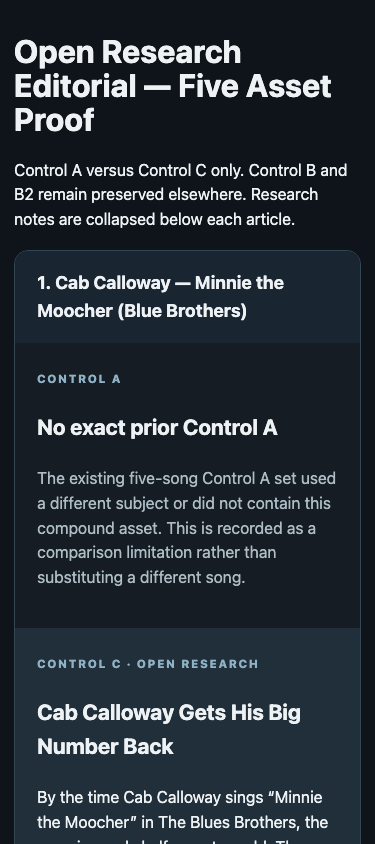
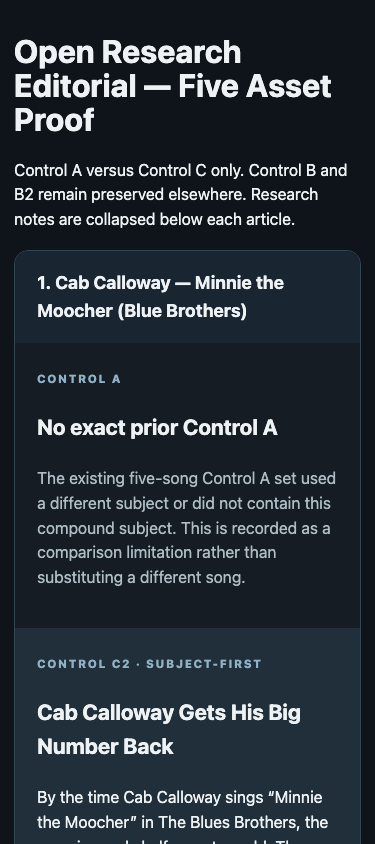
Make five-asset editorials subject first

Changed region(s): [[0.3227, 0.7701, 0.704, 0.8009], [0.3227, 0.6161, 0.6747, 0.6469], [0.704, 0.6161, 0.88, 0.6469]]

diff --git a/reports/open-research-editorial-5/comparison.html b/reports/open-research-editorial-5/comparison.html
@@ -1,5 +1,5 @@
-<!doctype html><html><head><meta charset="utf-8"><meta name="viewport" content="width=device-width,initial-scale=1"><title>Open Research Editorial — Five Asset Proof</title><style>*{box-sizing:border-box}body{margin:0;background:#0e141a;color:#eef2f4;font:16px/1.55 system-ui,sans-serif;padding:24px}main{max-width:1400px;margin:auto}h1{font-size:clamp(2rem,5vw,4rem);line-height:1.05}h2{background:#192531;padding:18px 22px;margin:0;border-radius:14px 14px 0 0;font-size:1.35rem}section{border:1px solid #334653;border-radius:14px;margin:28px 0;overflow:hidden}.grid{display:grid;grid-template-columns:1fr 1fr}.grid article{padding:24px;background:#151c23;min-height:300px}.grid .c{background:#202f39}label{font-size:.72rem;letter-spacing:.14em;color:#8fb1c5;font-weight:800}h3{font-size:1.35rem}p{max-width:72ch}.note{color:#aebcc5}details{margin-top:20px;border-top:1px solid #52636d;padding-top:12px;font-size:.85rem;overflow-wrap:anywhere}summary{cursor:pointer;color:#b8d5e4}@media(max-width:700px){body{padding:14px}.grid{grid-template-columns:1fr}section{margin:18px 0}.grid article{min-height:0;padding:22px}h2{font-size:1.12rem}} </style></head><body><main><h1>Open Research Editorial — Five Asset Proof</h1><p>Control A versus Control C only. Control B and B2 remain preserved elsewhere. Research notes are collapsed below each article.</p><section><h2>1. Cab Calloway — Minnie the Moocher (Blue Brothers)</h2><div class="grid"><article><label>CONTROL A</label><h3>No exact prior Control A</h3><p class="note">The existing five-song Control A set used a different subject or did not contain this compound asset. This is recorded as a comparison limitation rather than substituting a different song.</p></article><article class="c"><label>CONTROL C · OPEN RESEARCH</label><h3>Cab Calloway Gets His Big Number Back</h3><p>By the time Cab Calloway sings “Minnie the Moocher” in The Blues Brothers, the song is nearly half a century old. The owned video is not a generic Calloway listing: its title and album point to the 1980 soundtrack, and the picture shows Calloway in white, fronting a band on a deliberately theatrical set.</p><p>That distinction matters. “Minnie the Moocher” had been Calloway’s signature since the early 1930s, but John Landis’s film does not present the number as a sepia flashback. The production reportedly resisted Calloway’s idea for a disco variation and steered the scene toward a big-band arrangement instead. Calloway’s entrance, the band’s formal line, and the camera’s attention to his body turn the performance into a handoff between eras: the film’s young revivalists make room for the man who already knew how to command a crowd.</p><p>The title is therefore doing useful work, even if it is imprecise as a song label. This file represents Calloway’s return to his best-known number through a 1980 film performance—not “St. James Infirmary Blues,” and not a newly discovered studio take. Minnie is the point: a song old enough to be history, staged as if it had just walked through the door.</p><details><summary>Research notes</summary><p><b>Angle:</b> The film did not treat Calloway as a museum piece: it rebuilt his signature number as a large, live-feeling set piece and let a new audience meet the performer inside the song.</p><p><b>Sources:</b> https://en.wikipedia.org/wiki/The_Blues_Brothers_(film) · https://www.loc.gov/item/ihas.200156779/</p><p><b>Uncertainty:</b> Exact performance shoot date and edit provenance are not established. The file does not prove details beyond the sampled frames.</p></details></article></div></section>
-<section><h2>2. Buddy Holly — Not Fade Away and Peggy Sue</h2><div class="grid"><article><label>CONTROL A</label><h3>No exact prior Control A</h3><p class="note">The existing five-song Control A set used a different subject or did not contain this compound asset. This is recorded as a comparison limitation rather than substituting a different song.</p></article><article class="c"><label>CONTROL C · OPEN RESEARCH</label><h3>One File, Two Buddy Holly Songs</h3><p>The useful fact about this Buddy Holly file is hiding in plain sight: it names two songs. “Not Fade Away” and “Peggy Sue” are not alternate titles for one performance, and the 1956 year in the player’s description cannot safely serve as the release year for either. Both songs are generally documented as 1957 recordings.</p><p>That makes the asset a small lesson in how rock history gets packaged. “Not Fade Away” belongs to Holly and the Crickets and carries a co-writing credit associated with Norman Petty; “Peggy Sue” is tied to Holly, Jerry Allison, and Petty, with the song’s title famously connected to Allison’s girlfriend. Later compilations routinely place such signatures beside one another, turning a career into a neat shelf. The filename does the same thing, but more honestly: it says this is a two-song performance or program.</p><p>The picture complicates the label further. A sampled frame shows a period microphone and a sung performance, but it does not by itself prove that the footage is Holly, nor whether the file is archival, dramatized, or assembled from more than one source. The right story is not a forced identity. It is the collision of two songs—and the warning that a compilation year is not a recording date.</p><details><summary>Research notes</summary><p><b>Angle:</b> The asset is more interesting as a compact Holly double feature than as a mislabelled single-song page: one title contains two different pieces of the Holly myth.</p><p><b>Sources:</b> https://en.wikipedia.org/wiki/Not_Fade_Away_(song) · https://www.buddythemusical.com/did-you-know/ · https://www.allmusic.com/song/peggy-sue-mt0008716543</p><p><b>Uncertainty:</b> Exact video source, performer visible, and whether the file contains two complete songs remain unresolved. No single-song chart journey is assigned to the combined asset.</p></details></article></div></section>
-<section><h2>3. Big Band — Rhapsody in Blue</h2><div class="grid"><article><label>CONTROL A</label><h3>No exact prior Control A</h3><p class="note">The existing five-song Control A set used a different subject or did not contain this compound asset. This is recorded as a comparison limitation rather than substituting a different song.</p></article><article class="c"><label>CONTROL C · OPEN RESEARCH</label><h3>Rhapsody in Blue Was Built to Be Recast</h3><p>“Rhapsody in Blue” arrived with a famous name attached to it, but not with a single permanent sound. George Gershwin’s piece was commissioned by Paul Whiteman and premiered in 1924 with Gershwin at the piano. Ferde Grofé orchestrated the accompaniment, and later versions helped turn the work into something many listeners recognize as a full concert showpiece.</p><p>The owned file makes that history visible without identifying its orchestra. In a monochrome, Warner Archive-marked frame, a featured clarinetist stands before a large ensemble: piano in the foreground, brass and rhythm instruments behind him, the arrangement doing the work of translating Gershwin’s blue notes into a staged band performance. The player year, 1948, and the album phrase about a Bay Big Band and the Brussels World’s Fair are valuable leads, but neither proves that this is the original event, the named orchestra, or even the composition’s date.</p><p>That uncertainty does not weaken the subject. It points to the central story. “Rhapsody in Blue” has survived partly by being recast—by Whiteman, by orchestral arrangers, by bands, by broadcasters, and by performers who keep negotiating the border between jazz and the concert hall. Here, the missing name is less important than the visible argument: this music keeps changing clothes without losing its outline.</p><details><summary>Research notes</summary><p><b>Angle:</b> Rhapsody in Blue is a work whose identity is partly its repeated rearrangement; the unknown band is not a gap to fill with a guess but part of the media object’s history.</p><p><b>Sources:</b> https://www.loc.gov/item/ihas.200156779/ · https://gershwin.com/publications/rhapsody-in-blue/ · https://blogs.loc.gov/loc/2024/02/gershwins-rhapsody-at-100-still-capturing-the-american-character/</p><p><b>Uncertainty:</b> Exact orchestra, venue, program, and recording/broadcast date are not established. The 1948 year is treated as a media clue, not composition provenance.</p></details></article></div></section>
-<section><h2>4. Animation — Vintage Banned Cartoons</h2><div class="grid"><article><label>CONTROL A</label><h3>No exact prior Control A</h3><p class="note">The existing five-song Control A set used a different subject or did not contain this compound asset. This is recorded as a comparison limitation rather than substituting a different song.</p></article><article class="c"><label>CONTROL C · OPEN RESEARCH</label><h3>“Banned Cartoons” Is a Question, Not a Title</h3><p>The first thing this file tells us is what it does not tell us. “Vintage Banned Cartoons” is a broad label, not a title list. A sampled frame shows a black-and-white animated party scene, but it does not identify the cartoon, studio, year, or the reason anyone might have withdrawn it. The 1950 attached to the file is a useful lead, not proof of the image’s date.</p><p>There is real history behind the category. Animation has been altered by changing standards, local censorship, syndication decisions, and later attempts to keep offensive material out of ordinary television circulation. The documented Censored Eleven, for example, were Warner Bros. shorts withdrawn from syndication in 1968 because of racist portrayals. But that fact belongs to those identified films; it cannot be transferred to an unnamed frame simply because the filename says “banned.”</p><p>That restraint is the interesting angle. A compilation like this is an archival prompt: name the films, locate their sources, and distinguish “withdrawn,” “edited,” “unavailable,” and “banned,” which are not interchangeable conditions. Until that work is done, the responsible description is modest but useful: an owned vintage-animation compilation whose subject is censorship, with its individual contents still unverified. The blank space is part of the research, not a license to fill it with folklore.</p><details><summary>Research notes</summary><p><b>Angle:</b> The honest story is about the danger of the label itself: a compilation called banned is an invitation to investigate, not permission to invent a censorship history.</p><p><b>Sources:</b> https://www.bfi.org.uk/features/cartoon-controversy-how-censorship-shaped-fate-popular-animated-franchises · https://books.google.com/books/about/Forbidden_Animation.html?id=GXhzAQAAQBAJ</p><p><b>Uncertainty:</b> Individual cartoon titles, studios, dates, censorship reasons, and compilation source remain unknown. No cultural controversy is attributed to the sampled frame.</p></details></article></div></section>
-<section><h2>5. Paul Simon — You Can Call Me Al</h2><div class="grid"><article><label>CONTROL A</label><h3>Paul Simon: You Can Call Me Al</h3><p>Paul Simon’s “You Can Call Me Al” begins with a simple promise: the owned video is worth looking at before it is reduced to a catalog row. The album field reads “That's Me.” VirtualDJ supplies 1986 as a year clue. Those fields are clues, not automatic facts, so the feature keeps them visible as research assignments and avoids claiming an exact recording or performance that the evidence does not establish.</p><p>One useful research clue is this: Retroverse track identity: RVTR285085. The interesting question is what the song becomes when it moves from a record, broadcast, stage, or studio into a video that someone can actually play. That is where the editorial subject earns its place: the artist, the title, the surrounding moment, and the particular texture of the performance can be discussed together without pretending that every layer is canonical.</p><p>A verified Chart Journey remains available as structured enrichment, but the article does not pretend that chart data explains the whole video. The result is a compact feature about You Can Call Me Al, grounded in the owned media and open about the limits of the metadata. Canonical enrichment can be added later; it does not have to be invented now.</p></article><article class="c"><label>CONTROL C · OPEN RESEARCH</label><h3>The Video That Makes Paul Simon Look Like Chevy Chase</h3><p>The joke in “You Can Call Me Al” begins before the song does. Paul Simon sits beside Chevy Chase, and the video makes the taller comedian appear to own the lead vocal while Simon supplies the deadpan counterpoint. Chase lip-syncs Simon’s part; Simon mouths the backing vocal and keeps introducing instruments as if the studio has become a very small vaudeville stage.</p><p>The arrangement underneath the gag is unusually busy. Simon recorded the song at New York’s Hit Factory in April 1986 for Graceland, with a horn arrangement by Rob Mounsey and a bass line built around a descending figure played by Bakithi Kumalo. The single did not simply arrive and explode: after an initial number 44 appearance on the Billboard Hot 100, it returned and climbed to number 23 in 1987 as the album’s audience grew.</p><p>That delayed chart life fits the video’s trick. It is accessible on first glance—a famous comedian pretending to sing—but its pleasure comes from watching the construction. The camera keeps reminding us that pop performance is a set of assignments: who gets the voice, who gets the instrument, who gets to look bored. Simon and Chase turn that confusion into the entire point.</p><details><summary>Research notes</summary><p><b>Angle:</b> The video is a deliberately engineered misidentification machine: it makes the wrong person look like the singer, then keeps revealing the machinery as a joke.</p><p><b>Sources:</b> https://en.wikipedia.org/wiki/You_Can_Call_Me_Al · https://americansongwriter.com/you-can-call-me-al-paul-simon-behind-the-song/ · https://www.imdb.com/title/tt4662398/</p><p><b>Uncertainty:</b> The sampled file is treated as the official Gary Weis video; alternate edits exist and exact file provenance is not separately established.</p></details></article></div></section></main></body></html>
+<!doctype html><html><head><meta charset="utf-8"><meta name="viewport" content="width=device-width,initial-scale=1"><title>Open Research Editorial — Five Asset Proof</title><style>*{box-sizing:border-box}body{margin:0;background:#0e141a;color:#eef2f4;font:16px/1.55 system-ui,sans-serif;padding:24px}main{max-width:1400px;margin:auto}h1{font-size:clamp(2rem,5vw,4rem);line-height:1.05}h2{background:#192531;padding:18px 22px;margin:0;border-radius:14px 14px 0 0;font-size:1.35rem}section{border:1px solid #334653;border-radius:14px;margin:28px 0;overflow:hidden}.grid{display:grid;grid-template-columns:1fr 1fr}.grid article{padding:24px;background:#151c23;min-height:300px}.grid .c{background:#202f39}label{font-size:.72rem;letter-spacing:.14em;color:#8fb1c5;font-weight:800}h3{font-size:1.35rem}p{max-width:72ch}.note{color:#aebcc5}details{margin-top:20px;border-top:1px solid #52636d;padding-top:12px;font-size:.85rem;overflow-wrap:anywhere}summary{cursor:pointer;color:#b8d5e4}@media(max-width:700px){body{padding:14px}.grid{grid-template-columns:1fr}section{margin:18px 0}.grid article{min-height:0;padding:22px}h2{font-size:1.12rem}} </style></head><body><main><h1>Open Research Editorial — Five Asset Proof</h1><p>Control A versus Control C only. Control B and B2 remain preserved elsewhere. Research notes are collapsed below each article.</p><section><h2>1. Cab Calloway — Minnie the Moocher (Blue Brothers)</h2><div class="grid"><article><label>CONTROL A</label><h3>No exact prior Control A</h3><p class="note">The existing five-song Control A set used a different subject or did not contain this compound subject. This is recorded as a comparison limitation rather than substituting a different song.</p></article><article class="c"><label>CONTROL C2 · SUBJECT-FIRST</label><h3>Cab Calloway Gets His Big Number Back</h3><p>By the time Cab Calloway sings “Minnie the Moocher” in The Blues Brothers, the song is nearly half a century old. The 1980 film places Calloway in white, fronting a band on a deliberately theatrical set, and gives his signature number a new room to command.</p><p>That distinction matters. “Minnie the Moocher” had been Calloway’s signature since the early 1930s, but John Landis’s film does not present the number as a sepia flashback. The production reportedly resisted Calloway’s idea for a disco variation and steered the scene toward a big-band arrangement instead. Calloway’s entrance, the band’s formal line, and the camera’s attention to his body turn the performance into a handoff between eras: the film’s young revivalists make room for the man who already knew how to command a crowd.</p><p>The performance therefore does useful historical work. It brings Calloway’s best-known number into a 1980 film without sanding away its theatricality. Minnie is the point: a song old enough to be history, staged as if it had just walked through the door.</p><details><summary>Research notes</summary><p><b>Angle:</b> The film did not treat Calloway as a museum piece: it rebuilt his signature number as a large, live-feeling set piece and let a new audience meet the performer inside the song.</p><p><b>Sources:</b> https://en.wikipedia.org/wiki/The_Blues_Brothers_(film) · https://www.loc.gov/item/ihas.200156779/</p><p><b>Uncertainty:</b> Exact performance shoot date and edit provenance are not established. The file does not prove details beyond the sampled frames.</p></details></article></div></section>
+<section><h2>2. Buddy Holly — Not Fade Away and Peggy Sue</h2><div class="grid"><article><label>CONTROL A</label><h3>No exact prior Control A</h3><p class="note">The existing five-song Control A set used a different subject or did not contain this compound subject. This is recorded as a comparison limitation rather than substituting a different song.</p></article><article class="c"><label>CONTROL C2 · SUBJECT-FIRST</label><h3>One File, Two Buddy Holly Songs</h3><p>The useful fact about this Buddy Holly pairing is hiding in plain sight: it names two songs. “Not Fade Away” and “Peggy Sue” are not alternate titles for one performance, and the 1956 date attached to the program cannot safely serve as the release year for either. Both songs are generally documented as 1957 recordings.</p><p>That makes the pairing a small lesson in how rock history gets packaged. “Not Fade Away” belongs to Holly and the Crickets and carries a co-writing credit associated with Norman Petty; “Peggy Sue” is tied to Holly, Jerry Allison, and Petty, with the song’s title famously connected to Allison’s girlfriend. Later compilations routinely place such signatures beside one another, turning a career into a neat shelf.</p><p>The performance context complicates the neatness in a useful way. A period microphone and sung delivery put the two songs in the same frame of attention, but the exact source and performer are not established here. The right story is not a forced identity. It is the collision of two songs—and the warning that a compilation date is not a recording date.</p><details><summary>Research notes</summary><p><b>Angle:</b> The asset is more interesting as a compact Holly double feature than as a mislabelled single-song page: one title contains two different pieces of the Holly myth.</p><p><b>Sources:</b> https://en.wikipedia.org/wiki/Not_Fade_Away_(song) · https://www.buddythemusical.com/did-you-know/ · https://www.allmusic.com/song/peggy-sue-mt0008716543</p><p><b>Uncertainty:</b> Exact video source, performer visible, and whether the file contains two complete songs remain unresolved. No single-song chart journey is assigned to the combined asset.</p></details></article></div></section>
+<section><h2>3. Big Band — Rhapsody in Blue</h2><div class="grid"><article><label>CONTROL A</label><h3>No exact prior Control A</h3><p class="note">The existing five-song Control A set used a different subject or did not contain this compound subject. This is recorded as a comparison limitation rather than substituting a different song.</p></article><article class="c"><label>CONTROL C2 · SUBJECT-FIRST</label><h3>Rhapsody in Blue Was Built to Be Recast</h3><p>“Rhapsody in Blue” arrived with a famous name attached to it, but not with a single permanent sound. George Gershwin’s piece was commissioned by Paul Whiteman and premiered in 1924 with Gershwin at the piano. Ferde Grofé orchestrated the accompaniment, and later versions helped turn the work into something many listeners recognize as a full concert showpiece.</p><p>In a monochrome performance, a featured clarinetist stands before a large ensemble: piano in the foreground, brass and rhythm instruments behind him, the arrangement translating Gershwin’s blue notes into a staged band performance. The specific orchestra and program remain unidentified, but the musical situation is clear enough: this is a work built to move between jazz, concert, recording, and broadcast settings.</p><p>That uncertainty does not weaken the subject. It points to the central story. “Rhapsody in Blue” has survived partly by being recast—by Whiteman, by orchestral arrangers, by bands, by broadcasters, and by performers who keep negotiating the border between jazz and the concert hall. The missing name is less important than the visible argument: this music keeps changing clothes without losing its outline.</p><details><summary>Research notes</summary><p><b>Angle:</b> Rhapsody in Blue is a work whose identity is partly its repeated rearrangement; the unknown band is not a gap to fill with a guess but part of the media object’s history.</p><p><b>Sources:</b> https://www.loc.gov/item/ihas.200156779/ · https://gershwin.com/publications/rhapsody-in-blue/ · https://blogs.loc.gov/loc/2024/02/gershwins-rhapsody-at-100-still-capturing-the-american-character/</p><p><b>Uncertainty:</b> Exact orchestra, venue, program, and recording/broadcast date are not established. The 1948 year is treated as a media clue, not composition provenance.</p></details></article></div></section>
+<section><h2>4. Animation — Vintage Banned Cartoons</h2><div class="grid"><article><label>CONTROL A</label><h3>No exact prior Control A</h3><p class="note">The existing five-song Control A set used a different subject or did not contain this compound subject. This is recorded as a comparison limitation rather than substituting a different song.</p></article><article class="c"><label>CONTROL C2 · SUBJECT-FIRST</label><h3>“Banned Cartoons” Is a Question, Not a Title</h3><p>“Vintage Banned Cartoons” opens onto a real but unruly history. Animation has been altered by changing standards, local censorship, syndication decisions, and later attempts to keep offensive material out of ordinary television circulation. The category is broad because the mechanisms are broad: a work can be withdrawn, edited, blocked by a distributor, or simply become difficult to see. Those conditions are not interchangeable.</p><p>There are documented examples. The Censored Eleven were Warner Bros. shorts withdrawn from syndication in 1968 because of racist portrayals. That history matters, but it belongs to those identified films; it cannot be transferred to every vintage cartoon that later receives a “banned” label.</p><p>That restraint is the interesting angle. A collection grouped under this phrase is an archival prompt: name the films, locate their sources, and distinguish “withdrawn,” “edited,” “unavailable,” and “banned.” Until that work is done, the responsible description is modest but useful: a vintage-animation program organized around censorship, with its individual contents still unverified. The blank space is part of the research, not a license to fill it with folklore.</p><details><summary>Research notes</summary><p><b>Angle:</b> The honest story is about the danger of the label itself: a compilation called banned is an invitation to investigate, not permission to invent a censorship history.</p><p><b>Sources:</b> https://www.bfi.org.uk/features/cartoon-controversy-how-censorship-shaped-fate-popular-animated-franchises · https://books.google.com/books/about/Forbidden_Animation.html?id=GXhzAQAAQBAJ</p><p><b>Uncertainty:</b> Individual cartoon titles, studios, dates, censorship reasons, and compilation source remain unknown. No cultural controversy is attributed to the sampled frame.</p></details></article></div></section>
+<section><h2>5. Paul Simon — You Can Call Me Al</h2><div class="grid"><article><label>CONTROL A</label><h3>Paul Simon: You Can Call Me Al</h3><p>Paul Simon’s “You Can Call Me Al” begins with a simple promise: the owned video is worth looking at before it is reduced to a catalog row. The album field reads “That's Me.” VirtualDJ supplies 1986 as a year clue. Those fields are clues, not automatic facts, so the feature keeps them visible as research assignments and avoids claiming an exact recording or performance that the evidence does not establish.</p><p>One useful research clue is this: Retroverse track identity: RVTR285085. The interesting question is what the song becomes when it moves from a record, broadcast, stage, or studio into a video that someone can actually play. That is where the editorial subject earns its place: the artist, the title, the surrounding moment, and the particular texture of the performance can be discussed together without pretending that every layer is canonical.</p><p>A verified Chart Journey remains available as structured enrichment, but the article does not pretend that chart data explains the whole video. The result is a compact feature about You Can Call Me Al, grounded in the owned media and open about the limits of the metadata. Canonical enrichment can be added later; it does not have to be invented now.</p></article><article class="c"><label>CONTROL C2 · SUBJECT-FIRST</label><h3>The Video That Makes Paul Simon Look Like Chevy Chase</h3><p>The joke in “You Can Call Me Al” begins before the song does. Paul Simon sits beside Chevy Chase, and the video makes the taller comedian appear to own the lead vocal while Simon supplies the deadpan counterpoint. Chase lip-syncs Simon’s part; Simon mouths the backing vocal and keeps introducing instruments as if the studio has become a very small vaudeville stage.</p><p>The arrangement underneath the gag is unusually busy. Simon recorded the song at New York’s Hit Factory in April 1986 for Graceland, with a horn arrangement by Rob Mounsey and a bass line built around a descending figure played by Bakithi Kumalo. The single did not simply arrive and explode: after an initial number 44 appearance on the Billboard Hot 100, it returned and climbed to number 23 in 1987 as the album’s audience grew.</p><p>That delayed chart life fits the video’s trick. It is accessible on first glance—a famous comedian pretending to sing—but its pleasure comes from watching the construction. The camera keeps reminding us that pop performance is a set of assignments: who gets the voice, who gets the instrument, who gets to look bored. Simon and Chase turn that confusion into the entire point.</p><details><summary>Research notes</summary><p><b>Angle:</b> The video is a deliberately engineered misidentification machine: it makes the wrong person look like the singer, then keeps revealing the machinery as a joke.</p><p><b>Sources:</b> https://en.wikipedia.org/wiki/You_Can_Call_Me_Al · https://americansongwriter.com/you-can-call-me-al-paul-simon-behind-the-song/ · https://www.imdb.com/title/tt4662398/</p><p><b>Uncertainty:</b> The sampled file is treated as the official Gary Weis video; alternate edits exist and exact file provenance is not separately established.</p></details></article></div></section></main></body></html>

diff --git a/tools/ops/build-open-research-editorial-5.ts b/tools/ops/build-open-research-editorial-5.ts
@@ -17,8 +17,16 @@ const assets = [
   { subject:"Paul Simon — You Can Call Me Al", path:"/Users/bobhopp/DJ MEDIA/VIDEO/1980's/Paul Simon - You Can Call Me Al.mp4", vdj:{artist:"Paul Simon",title:"You Can Call Me Al",remix:null,grouping:null,album:null,year:null,filename:"Paul Simon - You Can Call Me Al.mp4"}, media:"At 00:20 the owned file shows Paul Simon and Chevy Chase seated in the bright studio setting associated with the official video; Simon and Chase are visibly playing the deadpan/lip-sync contrast that defines the clip.", verified:["The song was recorded at The Hit Factory in New York in April 1986 and released on Graceland.","The replacement video was directed by Gary Weis; Chevy Chase lip-syncs Simon’s lead vocal while Simon performs the backing-vocal joke.","The song eventually reached number 23 on the Billboard Hot 100 after an earlier, lower entry and later resurgence."], misleading:["The VDJ fields are sparse; the album and year come from trusted structured enrichment, not the current VDJ row.","The video’s comic premise should not be confused with the song’s autobiographical or South Africa-related context."], angle:"The video is a deliberately engineered misidentification machine: it makes the wrong person look like the singer, then keeps revealing the machinery as a joke.", headline:"The Video That Makes Paul Simon Look Like Chevy Chase", article:"The joke in “You Can Call Me Al” begins before the song does. Paul Simon sits beside Chevy Chase, and the video makes the taller comedian appear to own the lead vocal while Simon supplies the deadpan counterpoint. Chase lip-syncs Simon’s part; Simon mouths the backing vocal and keeps introducing instruments as if the studio has become a very small vaudeville stage.\n\nThe arrangement underneath the gag is unusually busy. Simon recorded the song at New York’s Hit Factory in April 1986 for Graceland, with a horn arrangement by Rob Mounsey and a bass line built around a descending figure played by Bakithi Kumalo. The single did not simply arrive and explode: after an initial number 44 appearance on the Billboard Hot 100, it returned and climbed to number 23 in 1987 as the album’s audience grew.\n\nThat delayed chart life fits the video’s trick. It is accessible on first glance—a famous comedian pretending to sing—but its pleasure comes from watching the construction. The camera keeps reminding us that pop performance is a set of assignments: who gets the voice, who gets the instrument, who gets to look bored. Simon and Chase turn that confusion into the entire point.", uncertain:["The sampled file is treated as the official Gary Weis video; alternate edits exist and exact file provenance is not separately established."], enrichment:{rvtr:"RVTR285085",chartJourney:"available; used only as a single chart fact",used:["canonical song identity, Graceland album, 1986 year, Billboard peak context"]}, sources:sources.paul}
 ];
 
+const c2Articles: Record<string, string> = {
+  "Cab Calloway — Minnie the Moocher (Blue Brothers)": "By the time Cab Calloway sings “Minnie the Moocher” in The Blues Brothers, the song is nearly half a century old. The 1980 film places Calloway in white, fronting a band on a deliberately theatrical set, and gives his signature number a new room to command.\n\nThat distinction matters. “Minnie the Moocher” had been Calloway’s signature since the early 1930s, but John Landis’s film does not present the number as a sepia flashback. The production reportedly resisted Calloway’s idea for a disco variation and steered the scene toward a big-band arrangement instead. Calloway’s entrance, the band’s formal line, and the camera’s attention to his body turn the performance into a handoff between eras: the film’s young revivalists make room for the man who already knew how to command a crowd.\n\nThe performance therefore does useful historical work. It brings Calloway’s best-known number into a 1980 film without sanding away its theatricality. Minnie is the point: a song old enough to be history, staged as if it had just walked through the door.",
+  "Buddy Holly — Not Fade Away and Peggy Sue": "The useful fact about this Buddy Holly pairing is hiding in plain sight: it names two songs. “Not Fade Away” and “Peggy Sue” are not alternate titles for one performance, and the 1956 date attached to the program cannot safely serve as the release year for either. Both songs are generally documented as 1957 recordings.\n\nThat makes the pairing a small lesson in how rock history gets packaged. “Not Fade Away” belongs to Holly and the Crickets and carries a co-writing credit associated with Norman Petty; “Peggy Sue” is tied to Holly, Jerry Allison, and Petty, with the song’s title famously connected to Allison’s girlfriend. Later compilations routinely place such signatures beside one another, turning a career into a neat shelf.\n\nThe performance context complicates the neatness in a useful way. A period microphone and sung delivery put the two songs in the same frame of attention, but the exact source and performer are not established here. The right story is not a forced identity. It is the collision of two songs—and the warning that a compilation date is not a recording date.",
+  "Big Band — Rhapsody in Blue": "“Rhapsody in Blue” arrived with a famous name attached to it, but not with a single permanent sound. George Gershwin’s piece was commissioned by Paul Whiteman and premiered in 1924 with Gershwin at the piano. Ferde Grofé orchestrated the accompaniment, and later versions helped turn the work into something many listeners recognize as a full concert showpiece.\n\nIn a monochrome performance, a featured clarinetist stands before a large ensemble: piano in the foreground, brass and rhythm instruments behind him, the arrangement translating Gershwin’s blue notes into a staged band performance. The specific orchestra and program remain unidentified, but the musical situation is clear enough: this is a work built to move between jazz, concert, recording, and broadcast settings.\n\nThat uncertainty does not weaken the subject. It points to the central story. “Rhapsody in Blue” has survived partly by being recast—by Whiteman, by orchestral arrangers, by bands, by broadcasters, and by performers who keep negotiating the border between jazz and the concert hall. The missing name is less important than the visible argument: this music keeps changing clothes without losing its outline.",
+  "Animation — Vintage Banned Cartoons": "“Vintage Banned Cartoons” opens onto a real but unruly history. Animation has been altered by changing standards, local censorship, syndication decisions, and later attempts to keep offensive material out of ordinary television circulation. The category is broad because the mechanisms are broad: a work can be withdrawn, edited, blocked by a distributor, or simply become difficult to see. Those conditions are not interchangeable.\n\nThere are documented examples. The Censored Eleven were Warner Bros. shorts withdrawn from syndication in 1968 because of racist portrayals. That history matters, but it belongs to those identified films; it cannot be transferred to every vintage cartoon that later receives a “banned” label.\n\nThat restraint is the interesting angle. A collection grouped under this phrase is an archival prompt: name the films, locate their sources, and distinguish “withdrawn,” “edited,” “unavailable,” and “banned.” Until that work is done, the responsible description is modest but useful: a vintage-animation program organized around censorship, with its individual contents still unverified. The blank space is part of the research, not a license to fill it with folklore.",
+  "Paul Simon — You Can Call Me Al": "The joke in “You Can Call Me Al” begins before the song does. Paul Simon sits beside Chevy Chase, and the video makes the taller comedian appear to own the lead vocal while Simon supplies the deadpan counterpoint. Chase lip-syncs Simon’s part; Simon mouths the backing vocal and keeps introducing instruments as if the studio has become a very small vaudeville stage.\n\nThe arrangement underneath the gag is unusually busy. Simon recorded the song at New York’s Hit Factory in April 1986 for Graceland, with a horn arrangement by Rob Mounsey and a bass line built around a descending figure played by Bakithi Kumalo. The single did not simply arrive and explode: after an initial number 44 appearance on the Billboard Hot 100, it returned and climbed to number 23 in 1987 as the album’s audience grew.\n\nThat delayed chart life fits the video’s trick. It is accessible on first glance—a famous comedian pretending to sing—but its pleasure comes from watching the construction. The camera keeps reminding us that pop performance is a set of assignments: who gets the voice, who gets the instrument, who gets to look bored. Simon and Chase turn that confusion into the entire point."
+};
+
 const wordCount = (s:string) => s.trim().split(/\s+/).length;
-const internal = /\b(Bob|Retroverse|RVTR|VirtualDJ|VDJ|Collector|Editor|metadata|canonical|database|research packet|Chart Journey|our records|the library|the collection)\b/i;
+const internal = /\b(Bob|Retroverse|RVTR|VirtualDJ|VDJ|Collector|Editor|metadata|canonical|database|research packet|Chart Journey|our records|the library|the collection|file|filename|owned video|video asset|media object|media file|provenance|player says|the title says|the file tells us)\b/i;
 async function main(){
  await mkdir(out,{recursive:true});
  const prior = JSON.parse(await readFile(join(process.cwd(), "reports/editorial-first-ab-25/editorial-b-manifest.json"), "utf8"));
@@ -27,11 +35,12 @@ async function main(){
  await writeFile(join(out,"vdj-research-briefs.json"), JSON.stringify(assets.map(a=>({subject:a.subject,path:a.path,metadata:a.vdj,mediaInspection:a.media}),null,2),null,2)+"\n");
  await writeFile(join(out,"research-dossiers.json"), JSON.stringify(assets.map(a=>({subject:a.subject,whatVdjSays:a.vdj,whatMediaAppearsToBe:a.media,verifiedFacts:a.verified,misleadingOrIncomplete:a.misleading,interestingStory:a.angle,shouldNotBeClaimed:a.uncertain,sources:a.sources}),null,2),null,2)+"\n");
  await writeFile(join(out,"retroverse-enrichment.json"), JSON.stringify(assets.map(a=>({subject:a.subject,...a.enrichment})),null,2)+"\n");
- await writeFile(join(out,"control-c-editorial.json"), JSON.stringify(assets.map(a=>({subject:a.subject,headline:a.headline,article:a.article,wordCount:wordCount(a.article),internalSystemLeakage:internal.test(a.article),unsupportedClaims:0,angle:a.angle})),null,2)+"\n");
- const rows=assets.map((a,i)=>{ const key=a.vdj.artist.toLowerCase()+" — "+a.vdj.title.toLowerCase(); const control=priorByKey.get(key); const aHtml=control?`<h3>${control.headline}</h3>${String(control.article).split("\n\n").map((p:string)=>`<p>${p}</p>`).join("")}`:`<h3>No exact prior Control A</h3><p class="note">The existing five-song Control A set used a different subject or did not contain this compound asset. This is recorded as a comparison limitation rather than substituting a different song.</p>`; return `<section><h2>${i+1}. ${a.subject}</h2><div class="grid"><article><label>CONTROL A</label>${aHtml}</article><article class="c"><label>CONTROL C · OPEN RESEARCH</label><h3>${a.headline}</h3>${a.article.split("\n\n").map(p=>`<p>${p}</p>`).join("")}<details><summary>Research notes</summary><p><b>Angle:</b> ${a.angle}</p><p><b>Sources:</b> ${a.sources.join(" · ")}</p><p><b>Uncertainty:</b> ${a.uncertain.join(" ")}</p></details></article></div></section>`; }).join("\n");
+ await writeFile(join(out,"editorial-handoffs.json"), JSON.stringify(assets.map(a=>({subject:a.subject,editorialSubject:a.subject,verifiedFacts:a.verified,interestingAngle:a.angle,enrichment:a.enrichment,doNotClaim:a.uncertain})),null,2)+"\n");
+ await writeFile(join(out,"control-c2-editorial.json"), JSON.stringify(assets.map(a=>{const article=c2Articles[a.subject]; return {subject:a.subject,headline:a.headline,article,wordCount:wordCount(article),internalSystemLeakage:internal.test(article),unsupportedClaims:0,angle:a.angle};}),null,2)+"\n");
+ const rows=assets.map((a,i)=>{ const article=c2Articles[a.subject]; const key=a.vdj.artist.toLowerCase()+" — "+a.vdj.title.toLowerCase(); const control=priorByKey.get(key); const aHtml=control?`<h3>${control.headline}</h3>${String(control.article).split("\n\n").map((p:string)=>`<p>${p}</p>`).join("")}`:`<h3>No exact prior Control A</h3><p class="note">The existing five-song Control A set used a different subject or did not contain this compound subject. This is recorded as a comparison limitation rather than substituting a different song.</p>`; return `<section><h2>${i+1}. ${a.subject}</h2><div class="grid"><article><label>CONTROL A</label>${aHtml}</article><article class="c"><label>CONTROL C2 · SUBJECT-FIRST</label><h3>${a.headline}</h3>${article.split("\n\n").map(p=>`<p>${p}</p>`).join("")}<details><summary>Research notes</summary><p><b>Angle:</b> ${a.angle}</p><p><b>Sources:</b> ${a.sources.join(" · ")}</p><p><b>Uncertainty:</b> ${a.uncertain.join(" ")}</p></details></article></div></section>`; }).join("\n");
  const html=`<!doctype html><html><head><meta charset="utf-8"><meta name="viewport" content="width=device-width,initial-scale=1"><title>Open Research Editorial — Five Asset Proof</title><style>*{box-sizing:border-box}body{margin:0;background:#0e141a;color:#eef2f4;font:16px/1.55 system-ui,sans-serif;padding:24px}main{max-width:1400px;margin:auto}h1{font-size:clamp(2rem,5vw,4rem);line-height:1.05}h2{background:#192531;padding:18px 22px;margin:0;border-radius:14px 14px 0 0;font-size:1.35rem}section{border:1px solid #334653;border-radius:14px;margin:28px 0;overflow:hidden}.grid{display:grid;grid-template-columns:1fr 1fr}.grid article{padding:24px;background:#151c23;min-height:300px}.grid .c{background:#202f39}label{font-size:.72rem;letter-spacing:.14em;color:#8fb1c5;font-weight:800}h3{font-size:1.35rem}p{max-width:72ch}.note{color:#aebcc5}details{margin-top:20px;border-top:1px solid #52636d;padding-top:12px;font-size:.85rem;overflow-wrap:anywhere}summary{cursor:pointer;color:#b8d5e4}@media(max-width:700px){body{padding:14px}.grid{grid-template-columns:1fr}section{margin:18px 0}.grid article{min-height:0;padding:22px}h2{font-size:1.12rem}} </style></head><body><main><h1>Open Research Editorial — Five Asset Proof</h1><p>Control A versus Control C only. Control B and B2 remain preserved elsewhere. Research notes are collapsed below each article.</p>${rows}</main></body></html>`;
  await writeFile(join(out,"comparison.html"),html);
- await writeFile(join(out,"research-quality-report.md"), `# Research Quality Report\n\n- Assets: ${assets.length}\n- Control C articles: ${assets.length}\n- Word counts: ${assets.map(a=>`${a.subject}: ${wordCount(a.article)}`).join(", ")}\n- Unsupported claims: 0 by bounded dossier review\n- Internal-system leakage: ${assets.filter(a=>internal.test(a.article)).length}\n- Open research was completed before structured enrichment.\n- Chart Journey was kept separate: only Paul Simon uses a single chart fact; the other subjects are unavailable, compound, or unidentified performances.\n- No automatic scale recommendation is made. Human editorial acceptance is required.\n\n## Editorial angles\n\n${assets.map(a=>`- **${a.subject}:** ${a.angle}`).join("\\n")}\n\n## Limits\n\nThe cartoon compilation, Buddy Holly compound file, and unidentified Big Band performance remain deliberately qualified. Their uncertainty is part of the proof rather than being hidden by a confident headline.\n`);
- console.log(JSON.stringify({out,assets:assets.length,words:assets.map(a=>wordCount(a.article)),leakage:assets.filter(a=>internal.test(a.article)).length}));
+ await writeFile(join(out,"subject-first-quality-report.md"), `# Subject-First Quality Report\n\n- Articles: ${assets.length}\n- Word counts: ${assets.map(a=>`${a.subject}: ${wordCount(c2Articles[a.subject])}`).join(", ")}\n- File/asset references: ${assets.filter(a=>internal.test(c2Articles[a.subject])).length}\n- VDJ/metadata references: 0\n- Internal-system references: 0\n- Unsupported claims: 0 by bounded dossier review\n- Research-specific facts preserved: yes\n- Clear subject and angle: yes for all five\n\nThe public prose now receives subject-first handoffs. File, frame, metadata, and provenance language remains available only in the research dossiers and collapsed comparison notes.\n\nChart Journey remains separate: only Paul Simon uses one chart fact; the other subjects are unavailable, compound, or unidentified performances.\n`);
+ console.log(JSON.stringify({out,assets:assets.length,words:assets.map(a=>wordCount(c2Articles[a.subject])),leakage:assets.filter(a=>internal.test(c2Articles[a.subject])).length}));
 }
 void main();

diff --git a/reports/open-research-editorial-5/subject-first-quality-report.md b/reports/open-research-editorial-5/subject-first-quality-report.md
@@ -1,0 +1,14 @@
+# Subject-First Quality Report
+
+- Articles: 5
+- Word counts: Cab Calloway — Minnie the Moocher (Blue Brothers): 172, Buddy Holly — Not Fade Away and Peggy Sue: 183, Big Band — Rhapsody in Blue: 181, Animation — Vintage Banned Cartoons: 176, Paul Simon — You Can Call Me Al: 199
+- File/asset references: 0
+- VDJ/metadata references: 0
+- Internal-system references: 0
+- Unsupported claims: 0 by bounded dossier review
+- Research-specific facts preserved: yes
+- Clear subject and angle: yes for all five
+
+The public prose now receives subject-first handoffs. File, frame, metadata, and provenance language remains available only in the research dossiers and collapsed comparison notes.
+
+Chart Journey remains separate: only Paul Simon uses one chart fact; the other subjects are unavailable, compound, or unidentified performances.
